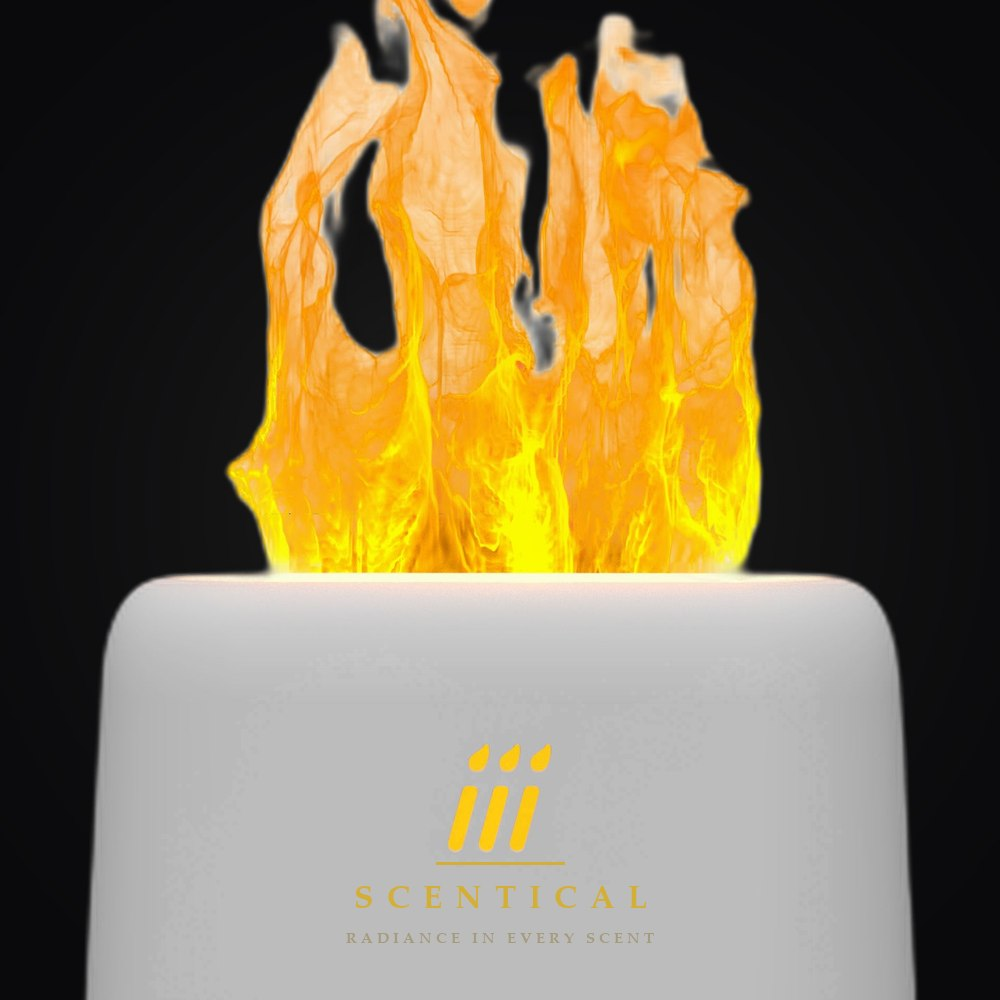
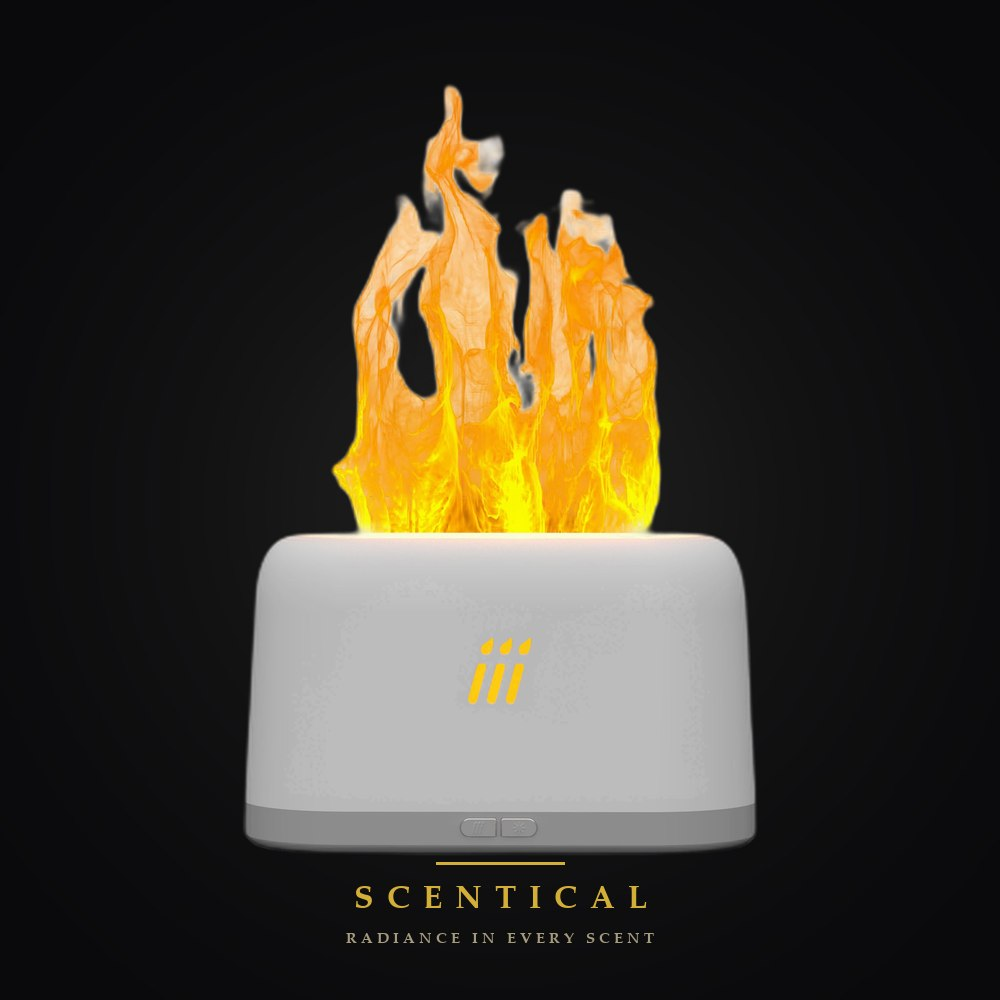
?v=10: clamp สินค้าพอดีเฟรม (แก้หลอดเนปาลล้นขอบ) + ชุดซูมิสุดท้าย

diff --git a/index.html b/index.html
@@ -154,7 +154,7 @@ footer{background:#080704;border-top:1px solid var(--line);margin-top:56px;paddi
 </div></div>
 
 <script>
-const P = [{"handle": "flame-aroma-diffuser-air-humidifier-ultrasonic-cool-mist-maker-fogger-led-essential-oil-flame-lamp-difusor", "price": 499, "tagTh": "ไฟลาวา · ท็อปของร้าน", "tagEn": "Flame effect · Top pick", "imgs": ["img/flame-aroma-diffuser-air-humidifier-ultr/img_13.jpg?v=9", "img/flame-aroma-diffuser-air-humidifier-ultr/img_07.jpg?v=9", "img/flame-aroma-diffuser-air-humidifier-ultr/img_08.jpg?v=9", "img/flame-aroma-diffuser-air-humidifier-ultr/img_12.jpg?v=9", "img/flame-aroma-diffuser-air-humidifier-ultr/img_14.jpg?v=9"], "th": {"name": "เครื่องพ่นหอมไฟลาวาพร้อมไฟสีตามอารมณ์", "blurb": "ไฟลาวาเต็มรูปแบบ 8 โหมดให้เลือกตามอารมณ์ — ตัวท็อปของร้าน", "desc": "ไฟ LED เลียนเปลวไฟสมจริงเต้นตามจังหวะ ปรับโหมดไฟได้ถึง 8 แบบ ทั้งสีเดียวและหลากสี ทำงานคู่กับไอหอมเย็นจากน้ำมันหอมระเหยที่เราชอบ เสียงเงียบเหมาะกับห้องนอนและมุมนั่งสมาธิ ปิดเองอัตโนมัติเมื่อน้ำหมด เสียบ USB ได้กับแหล่งจ่ายทุกแบบ มีทั้งสีดำและขาว เปิดทิ้งไว้ก่อนนอน แล้วปล่อยให้กลิ่นและแสงพาใจให้สงบก่อนหลับ"}, "en": {"name": "Flame Aroma Diffuser & Humidifier with LED Mood Light", "blurb": "8 lighting modes of realistic flame glow — our top pick for bedtime calm.", "desc": "A realistic flickering LED flame pairs with ultrasonic cool mist, gently scenting the room with your favorite essential oil. Eight lighting modes, whisper-quiet operation, USB power, and auto shut-off when the water runs out. Available in sleek Black or White — switch it on before bed and let the light and scent settle your evening."}, "featured": true}, {"handle": "japanese-style-ceramic-indoor-view-of-smoke-and-clouds-craft-ornaments", "price": 329, "tagTh": "ของสวยต้องมี", "tagEn": "Signature piece", "imgs": ["img/japanese-style-ceramic-indoor-view-of-sm/img_01.jpg?v=9", "img/japanese-style-ceramic-indoor-view-of-sm/img_02.jpg?v=9", "img/japanese-style-ceramic-indoor-view-of-sm/img_03.jpg?v=9", "img/japanese-style-ceramic-indoor-view-of-sm/img_04.jpg?v=9", "img/japanese-style-ceramic-indoor-view-of-sm/img_05.jpg?v=9"], "th": {"name": "ของประดับควันเซรามิคสไตล์ญี่ปุ่น “หมอกและเมฆ”", "blurb": "จัดวางแล้วเหมือนเมฆพลิ้วยามเช้า — ของประดับที่มีชีวิตขึ้นมาทุกครั้งที่จุดธูป", "desc": "แรงบันดาลใจจากงานฝีมือญี่ปุ่นที่เรียบและนิ่ง ควันธูปลอดช่องเซรามิคขึ้นไปม้วนตัวเหมือนเมฆและหมอกบนหุบเขายามเช้า เปลี่ยนท่าทางไปเรื่อย ๆ ไม่ซ้ำกันสักครั้ง เซรามิคทนความร้อน ดูแลง่าย แม้ไม่จุดก็ยังงดงามเป็นของประดับ ดีทั้งมุมอ่านหนังสือและมุมนั่งชงชา และเป็นของขวัญให้คนรักความเรียบง่ายได้เลย"}, "en": {"name": "Japanese-Style Smoke & Clouds Ceramic Ornament", "blurb": "Smoke that curls like clouds over a quiet landscape — beautiful even unlit.", "desc": "Inspired by serene Japanese craft, this ornament turns incense smoke into living art — curls and drifts that settle like clouds over a still landscape, never the same twice. Durable, heat-resistant ceramic that stands as striking decor even when unlit. Perfect for a reading corner or a quiet tea moment, and a lovely gift for lovers of calm, minimal spaces."}, "featured": true}, {"handle": "household-ceramic-incense-stick-backflow-incense-burner", "price": 299, "tagTh": "ของสวยต้องมี", "tagEn": "Signature piece", "imgs": ["img/household-ceramic-incense-stick-backflow/img_01.jpg?v=9", "img/household-ceramic-incense-stick-backflow/img_02.jpg?v=9", "img/household-ceramic-incense-stick-backflow/img_03.jpg?v=9", "img/household-ceramic-incense-stick-backflow/img_04.jpg?v=9", "img/household-ceramic-incense-stick-backflow/img_05.jpg?v=9"], "th": {"name": "เตาธูปกลิ้งเซรามิค “หมอกน้ำตกภูเขา”", "blurb": "ควันไหลลงซอกภูเขาเซรามิคเหมือนน้ำตกกลางหมอก — ของสวยที่ให้ทั้งกลิ่นและความสงบ ชิ้นเด่นประจำร้าน", "desc": "เซรามิคขึ้นรูปเป็นทิวเขา จุดกำยานกลิ้งแล้วดูควันไหลลงตามซอกผาเหมือนน้ำตกกลางหมอก เปลี่ยนท่าทางใหม่ทุกครั้งที่จุด เซรามิคทนความร้อน ทำความสะอาดง่าย แถมมีกำยานกลิ้งมาให้เริ่มจุดได้ทันทีตั้งแต่วันแรกที่ได้รับ เหมาะทั้งเป็นมุมสงบประจำบ้านของเราเอง และเป็นของขวัญที่คนได้รับจดจำได้นาน"}, "en": {"name": "Ceramic Backflow Incense Burner – Waterfall Smoke Mountain", "blurb": "Watch smoke pour down sculpted ceramic peaks like a misty waterfall — our signature piece.", "desc": "Sculpted ceramic mountains guide backflow-cone smoke downward like a misty waterfall, a living scene that changes with every burn. Heat-resistant and easy to clean, with backflow cones included so you can light one the day it arrives. A calming piece for your own corner — and a memorable gift."}, "featured": true}, {"handle": "best-selling-usb-ultrasonic-flame-humidifier-led-rgb-colorful-essential-oil-fire-flame-aroma-diffuser", "price": 449, "tagTh": "ไฟลาวา", "tagEn": "Flame effect", "imgs": ["img/best-selling-usb-ultrasonic-flame-humidi/img_04.jpg?v=9", "img/best-selling-usb-ultrasonic-flame-humidi/img_07.jpg?v=9", "img/best-selling-usb-ultrasonic-flame-humidi/img_08.jpg?v=9", "img/best-selling-usb-ultrasonic-flame-humidi/img_09.jpg?v=9", "img/best-selling-usb-ultrasonic-flame-humidi/img_10.jpg?v=9"], "th": {"name": "เครื่องพ่นหอมไฟลาวา 2-in-1 (RGB)", "blurb": "เปลวไฟ RGB วิบวับพร้อมไอหอมบางเบา — เปิดทีไหนมุมนั้นอุ่นขึ้นทันที", "desc": "เครื่องพ่นหอมสองหน้าที่ พ่นไอหอมเย็นจากน้ำมันหอมระเหยที่เราชอบ พร้อมไฟ RGB เลียนเปลวไฟวิบวับเหมือนเตาผิงยามค่ำ เสียงเงียบมาก ไม่รบกวนการนอนหรือการทำงาน และปิดเองอัตโนมัติเมื่อน้ำหมดเพื่อความปลอดภัย ใช้พลังงานผ่าน USB พกไปได้ทั้งโต๊ะทำงานและทริป มีสีขาวกับดำให้เลือก เปิดไว้ตอนอ่านหนังสือก่อนนอน ห้องจะอุ่นขึ้นทั้งกลิ่นและแสง"}, "en": {"name": "2-in-1 Flame Diffuser & Humidifier (RGB)", "blurb": "A flickering RGB flame with soft cool mist — instant warmth for any corner.", "desc": "Ultrasonic cool mist rises through a dynamic RGB flame effect, creating the illusion of real fire while carrying your favorite essential-oil scent through the room. USB-powered, whisper-quiet, and safe with waterless auto shut-off — easy to move between desk, dorm, and travel. Choose White or Black, and let bedtime reading feel warmer in both scent and light."}, "featured": false}, {"handle": "incense-burner-household-indoor-sandalwood-agilawood-ceramic", "price": 299, "tagTh": "กลิ่นซิกเนเจอร์", "tagEn": "Signature scent", "imgs": ["img/incense-burner-household-indoor-sandalwo/img_01.jpg?v=9", "img/incense-burner-household-indoor-sandalwo/img_02.jpg?v=9", "img/incense-burner-household-indoor-sandalwo/img_03.jpg?v=9", "img/incense-burner-household-indoor-sandalwo/img_04.jpg?v=9", "img/incense-burner-household-indoor-sandalwo/img_05.jpg?v=9", "img/incense-burner-household-indoor-sandalwo/img_06.jpg?v=9"], "th": {"name": "เตาเซรามิคทำมือสำหรับธูปไม้จันทน์-อการ์วู้ด", "blurb": "ออกแบบมาเพื่อกลิ่นไม้โดยเฉพาะ — สองสีเคลือบโทนธรรมชาติ น้ำตาลอุ่นและเบจนุ่ม", "desc": "ทรงต่ำ โค้งมน ออกแบบมาให้พอดีกับธูปด้ามและกำยานกลิ่นไม้จันทน์กับอการ์วู้ด ให้ควันหอมหมุนวนออกมาอย่างช้า ๆ ไม่รีบร้อน งานเซรามิคทำมือผนังหนา กระจายความร้อนสม่ำเสมอ ปลอดภัย ใช้ทุกวันได้ เคลือบสองสีโทนธรรมชาติ — น้ำตาลอุ่นและเบจนุ่ม — สำหรับคนที่มีกลิ่นไม้เป็นกลิ่นประจำใจ ชิ้นนี้คือคู่แท้ของกันและกัน"}, "en": {"name": "Handcrafted Ceramic Burner for Sandalwood & Agarwood", "blurb": "Made for wood scents — two earthy glazes, warm brown and soft beige.", "desc": "Designed specifically for sandalwood and agarwood incense, its low, rounded form holds the ember safely while rich smoke drifts out in an unhurried spiral. Handcrafted ceramic with thick walls spreads heat evenly, built for daily rituals and meditation. Choose two earthy glazes — warm Brown or soft Beige — to sit naturally in your favorite corner."}, "featured": false}, {"handle": "layer-mountain-ceramic-incense-burner-incense-holder-creative-decoration-tea-ceremony-worship-antique-incense-holder-incense-burner-household-copy", "price": 279, "tagTh": "ของสวยต้องมี", "tagEn": "Signature piece", "imgs": ["img/layer-mountain-ceramic-incense-burner-in/img_01.jpg?v=9", "img/layer-mountain-ceramic-incense-burner-in/img_02.jpg?v=9", "img/layer-mountain-ceramic-incense-burner-in/img_03.jpg?v=9"], "th": {"name": "เตาธูปกลิ้งภูเขาซ้อนชั้น", "blurb": "ยอดเขาซ้อนชั้นให้สายหมอกไหลยาวต่อเนื่อง สามสีเคลือบให้เลือก — มุมโปรดของสายถ่ายรูป", "desc": "ภูเขาเซรามิคทำมือซ้อนกันหลายชั้น จุดกำยานกลิ้งแล้วควันไหลลงตามหุบเขาเหมือนหมอกยามเช้า เป็นภาพที่ขยับและเปลี่ยนไปทุกครั้ง เลือกสีเคลือบได้ 3 สี — ดำลึก เขียวป่า ขาวกระเบื้อง — มีถาดรองเถ้าถอดออกล้างได้ง่าย วางไว้มุมลมนิ่งแล้วสายหมอกจะสวยที่สุด ถ่ายรูปสวยทุกมุม ให้เป็นของขวัญก็คนได้รับต้องถามหา"}, "en": {"name": "Layer Mountain Backflow Incense Burner – Ceramic Cascade", "blurb": "Handcrafted layered peaks in 3 glazes — a mountain range drawn in smoke.", "desc": "Light a backflow cone and watch smoke pour between the handcrafted ceramic peaks like mist rolling through mountain valleys — a moving scene that changes with every burn. Choose Deep Black, Forest Green, or Porcelain White, with a removable ash tray for easy cleanup. Best in a still-air corner; endlessly photographable, and a gift guests always ask about."}, "featured": false}, {"handle": "ceramic-incense-burner-incense-holder-creative-decoration-tea-ceremony-worship-antique-incense-holder-incense-burner-household", "price": 259, "tagTh": "สะสม", "tagEn": "Collectible", "imgs": ["img/ceramic-incense-burner-incense-holder-cr/img_03.jpg?v=9", "img/ceramic-incense-burner-incense-holder-cr/img_01.jpg?v=9", "img/ceramic-incense-burner-incense-holder-cr/img_02.jpg?v=9"], "th": {"name": "เตาธูปหยินหยางเซรามิคทำมือ", "blurb": "ความสมดุลสองขั้วในชิ้นเดียว — เตาทำมือสำหรับคนที่ชอบเรื่องราวของแต่ละชิ้น", "desc": "ขึ้นรูปเป็นสัญลักษณ์หยินหยางจากเซรามิคเผาอุณหภูมิสูงทำมือ พื้นผิวด้านุ่ม จับแล้วหนักมือน่าถือ รองได้ทั้งธูปด้ามและกำยาน มีจานรองเถ้าในตัว ทำความสะอาดง่าย ให้เป็นของขวัญแก่คนรักโยคะและสายสงบ หรือวางไว้ข้างโต๊ะทำงานเตือนใจให้หายใจช้าลงบ้างในวันที่รีบ"}, "en": {"name": "Yinyang Ceramic Incense Burner – Handcrafted Taijitu", "blurb": "Balance in smoke and stone — a handcrafted Taijitu for daily rituals.", "desc": "Sculpted as the timeless Taijitu symbol, this high-fired handmade ceramic burner has a smooth, weighty feel and a refined matte finish. It holds stick or cone incense with an ash dish built in for effortless upkeep. A thoughtful gift for yoga and meditation lovers — or a quiet reminder on your desk to breathe a little slower."}, "featured": false}, {"handle": "nepal-handmade-incense-aromatherapy-joss-stick-natural-herb", "price": 249, "tagTh": "พรีเมียม", "tagEn": "Premium", "imgs": ["img/nepal-handmade-incense-aromatherapy-joss/img_04.jpg?v=9", "img/nepal-handmade-incense-aromatherapy-joss/img_03.jpg?v=9", "img/nepal-handmade-incense-aromatherapy-joss/img_07.jpg?v=9", "img/nepal-handmade-incense-aromatherapy-joss/img_08.jpg?v=9", "img/nepal-handmade-incense-aromatherapy-joss/img_10.jpg?v=9"], "th": {"name": "ธูปหอมทำมือเนปาล — สมุนไพรหิมาลัย", "blurb": "ร้อยมือจากเนปาล กลิ่นสมุนไพรลึก ๆ สงบ ๆ — สำหรับช่วงเวลาพักของตัวเอง", "desc": "ช่างชาวเนปาลร้อยทีละมือตามสูตรดั้งเดิม จากสมุนไพรธรรมชาติ ตากแดด ไม่ใส่สารเคมีรุนแรง ได้กลิ่นสมุนไพรเรียบ ๆ อบอุ่น ควันน้อย ไหม้เรียบร้อยจนดอก มี 7 กลิ่นให้เลือก เหมาะจุดตอนทำโยคะ นั่งสมาธิ หรือช่วงอาบน้ำอุ่นก่อนนอน และเป็นของขวัญให้คนรักความสงบได้ดีมาก"}, "en": {"name": "Nepal Handmade Incense Sticks – Himalayan Herbs", "blurb": "Hand-rolled in Nepal from natural Himalayan herbs — clean, earthy, deeply calming.", "desc": "Artisan makers in Nepal hand-roll and sun-dry each batch from natural herbs and resins, with no harsh chemicals — a clean, low-smoke burn and a pure, earthy fragrance rooted in Himalayan tradition. Seven essences to choose from, each burning slowly and evenly through a full yoga or meditation session. A gentle ritual for yourself, or a thoughtful gift for someone who needs to slow down."}, "featured": false}, {"handle": "removable-house-incense-burner", "price": 249, "tagTh": "ใช้ทุกวัน", "tagEn": "Everyday", "imgs": ["img/removable-house-incense-burner/img_01.jpg?v=9", "img/removable-house-incense-burner/img_02.jpg?v=9", "img/removable-house-incense-burner/img_03.jpg?v=9", "img/removable-house-incense-burner/img_04.jpg?v=9", "img/removable-house-incense-burner/img_05.jpg?v=9", "img/removable-house-incense-burner/img_06.jpg?v=9"], "th": {"name": "เตาธูปทรงบ้านเซรามิคฝาเปิดได้", "blurb": "บ้านจิ๋วเซรามิคสูง 13 ซม. ฝาเปิด-ถอดล้างง่าย กลิ่นลอยออกมาจากในบ้านน้อย ๆ อย่างนุ่มนวล", "desc": "เตาธูปรูปทรงบ้านเล็ก สูง 13 ซม. วางกำยานหรือธูปด้ามไว้ข้างใน แล้วดูกลิ่นลอยออกมาทางช่องเหมือนแสงอุ่น ๆ จากหน้าต่างบ้าน ฝาเปิด-ถอดได้ จุดและล้างง่าย มีถาดเถ้าซ่อนอยู่ข้างใน พื้นโต๊ะไม่เปื้อน เป็นชิ้นที่ให้เป็นของขวัญวันเกิด ของขวัญเข้าบ้านใหม่ หรือของขวัญให้ตัวเองก็น่ารักเสมอ"}, "en": {"name": "House-Shaped Ceramic Incense Burner – Removable Top (13 cm)", "blurb": "A little ceramic house that breathes fragrance — one of our most giftable pieces.", "desc": "Shaped like a tiny home, this 13 cm ceramic burner holds cones or sticks inside while fragrance drifts out like warmth from a lit window. The removable top makes lighting and cleaning easy, and a hidden ash tray keeps surfaces spotless. A heartwarming gift for housewarmings and birthdays — or a sweet little home for your own calm."}, "featured": false}, {"handle": "double-dragon-incense-plate-incense-burner", "price": 199, "tagTh": "สะสม", "tagEn": "Collectible", "imgs": ["img/double-dragon-incense-plate-incense-burn/img_01.jpg?v=9"], "th": {"name": "จานเตาธูปแบบมังกรคู่สลักนูน", "blurb": "เซรามิคสลักมังกรคู่ลายมงคล — จานรองธูปที่เป็นทั้งเครื่องเซ่นไหว้และของประดับ", "desc": "จานรองธูปเซรามิคเผาเข้ม สลักมังกรคู่ลายดั้งเดิมที่หมายถึงกำลัง ความเป็นสิริมงคล และการคุ้มครอง จานกว้าง 100 มม. รองธูปด้ามหรือธูปก้นหอยได้สบาย ผิวเคลือบเรียบ เช็ดเถ้าออกง่าย ให้เป็นของขวัญแก่คนที่ชอบเรื่องสัญลักษณ์และฮวงจุ้ย หรือตั้งไว้ที่หิ้งบูชาประจำบ้านก็ดูดีมีเรื่องราว"}, "en": {"name": "Double Dragon Incense Plate Burner – Sculpted Ceramic", "blurb": "Two sculpted dragons guard a generous 100 mm tray — a talisman you can actually use.", "desc": "Kiln-fired ceramic with two sculpted dragons flanking the burn tray, a traditional motif of strength, prosperity, and protection. The wide 100 mm plate holds stick or coiled incense, and the smooth glazed surface wipes clean in seconds. A meaningful gift for anyone drawn to symbolism and feng shui — or a quiet guardian for your own shelf or altar."}, "featured": false}, {"handle": "inverted-cone-incense-incense-tower-sandalwood", "price": 189, "tagTh": "ชุดเริ่มต้น", "tagEn": "Starter set", "imgs": ["img/inverted-cone-incense-incense-tower-sand/img_01.jpg?v=9", "img/inverted-cone-incense-incense-tower-sand/img_02.jpg?v=9", "img/inverted-cone-incense-incense-tower-sand/img_03.jpg?v=9", "img/inverted-cone-incense-incense-tower-sand/img_04.jpg?v=9"], "th": {"name": "กำยานกลิ้งทรงเจดีย์ 4 กลิ่น", "blurb": "กำยานกลิ้งรูกลาง 4 กลิ่น จุดแล้วควันไหลลงเป็นสาย — ชุดเริ่มต้นสำหรับคนเพิ่งเริ่มเล่นสายกลิ่น", "desc": "กำยานกลิ้งทรงเจดีย์เจาะช่องตรงกลาง จุดแล้วเป่าไฟออก ควันเย็นจะไหลลงตามตัวเตาเป็นน้ำตกหมอกภายในครึ่งนาที มี 4 กลิ่นให้เลือกตามอารมณ์ — กุหลาบอ่อนหวาน โอสมันทัสหอมกลิ่นดอกไม้ผล ลาเวนเดอร์เหมาะกับค่ำคืนก่อนนอน และไม้จันทน์อบอุ่นลึก เข้าคู่กับเตากลิ้งได้ทุกแบบในร้าน"}, "en": {"name": "Backflow Cone Incense Tower – 4 Scents", "blurb": "Hollow-core cones in 4 scents that pour smoke downward — made for backflow burners.", "desc": "Tower-shaped cones with a hollow channel: light the tip, blow out after 5–10 seconds, and within about half a minute the cooled smoke cascades downward like a waterfall. Choose Rugosa Rose, honeyed Osmanthus, calm Lavender for evenings, or warm creamy Sandalwood. They pair with any of our backflow burners for the full effect."}, "featured": false}, {"handle": "natural-cone-incense-pagoda-incense-small-box", "price": 169, "tagTh": "ของขวัญ", "tagEn": "Giftable", "imgs": ["img/natural-cone-incense-pagoda-incense-smal/img_02.jpg?v=9", "img/natural-cone-incense-pagoda-incense-smal/img_01.jpg?v=9", "img/natural-cone-incense-pagoda-incense-smal/img_03.jpg?v=9", "img/natural-cone-incense-pagoda-incense-smal/img_04.jpg?v=9", "img/natural-cone-incense-pagoda-incense-smal/img_05.jpg?v=9", "img/natural-cone-incense-pagoda-incense-smal/img_06.jpg?v=9", "img/natural-cone-incense-pagoda-incense-smal/img_07.jpg?v=9", "img/natural-cone-incense-pagoda-incense-smal/img_08.jpg?v=9", "img/natural-cone-incense-pagoda-incense-smal/img_09.jpg?v=9", "img/natural-cone-incense-pagoda-incense-smal/img_10.jpg?v=9"], "th": {"name": "กำยานธรรมชาติกล่องของขวัญ ทรงเจดีย์", "blurb": "กำยานพฤกษชาติกดมือในกล่องเจดีย์จิ๋ว — หยิบไปเป็นของขวัญได้เลย ไม่ต้องห่อเพิ่ม", "desc": "กำยานกดมือจากสมุนไพรและวัตถุดิบธรรมชาติ จุดแล้วกลิ่นนุ่มเบาสบาย ไม่ควันฉุนหนักอย่างกำยานทั่วไป เม็ดหนึ่งให้หอมประมาณ 20-30 นาที มี 8 กลิ่นให้เลือกสะสมตั้งแต่กลิ่นดอกไม้ถึงกลิ่นไม้ กล่องทรงเจดีย์สวยพร้อมให้เป็นของขวัญได้ทันที หรือเก็บไว้จุดเองตอนอ่านหนังสือยามค่ำก็ดีมาก"}, "en": {"name": "Natural Botanical Cone Incense – Pagoda Gift Box", "blurb": "Hand-pressed botanical cones in a pagoda box — lovely enough to gift as-is.", "desc": "Hand-pressed from herbs and natural botanical ingredients, these cones burn slowly — around 20–30 minutes each — releasing a soft, natural fragrance without the heavy smoke of mass-produced cones. Eight scent characters from floral to woody; pick one or collect them all. The pagoda-style box makes an effortless little gift, for someone else or for your own quiet evening."}, "featured": false}, {"handle": "ceramic-wire-incense-burner-home-indoor-incense-holder-incense", "price": 129, "tagTh": "ใช้ทุกวัน", "tagEn": "Everyday", "imgs": ["img/ceramic-wire-incense-burner-home-indoor-/img_01.jpg?v=9", "img/ceramic-wire-incense-burner-home-indoor-/img_02.jpg?v=9", "img/ceramic-wire-incense-burner-home-indoor-/img_03.jpg?v=9", "img/ceramic-wire-incense-burner-home-indoor-/img_04.jpg?v=9", "img/ceramic-wire-incense-burner-home-indoor-/img_05.jpg?v=9"], "th": {"name": "ที่เสียบธูปเซรามิคขาวาย (ฐานแดง)", "blurb": "เล็ก ง่าย ใช้ทุกวัน — ฐานเซรามิคสีแดงรับเถ้าไว้หมด มือไม่เปื้อน", "desc": "ฐานเซรามิคสีแดงเข้มคู่กับขาวายบางเบา เสียบธูปหนึ่งดอกให้ตั้งตรงเด่นเหมือนประติมากรรมจิ๋ว ควันลอยขึ้นอย่างอิสระ จานรองกว้างเก็บเถ้าไว้หมด ไม่ทำโต๊ะเปื้อน ขนาดกะทัดรัดวางได้ทั้งหัวเตียงและโต๊ะทำงาน เป็นของใช้ราคาเข้าถึงง่ายสำหรับเริ่มพิธีเล็ก ๆ ของตัวเอง หรือเป็นของขวัญชิ้นเล็กที่ใจความดี"}, "en": {"name": "Ceramic Wire Incense Stick Holder – Red Base", "blurb": "One stick, one small sculpture — a bold red base for everyday rituals.", "desc": "A striking red ceramic base with a delicate wire holder lifts a single incense stick into a small sculpture, letting the smoke rise freely. The wide dish catches every bit of ash to protect your furniture, and the compact footprint fits nightstands and desks alike. An easy, affordable way to begin — or gift — a daily incense ritual."}, "featured": false}];
+const P = [{"handle": "flame-aroma-diffuser-air-humidifier-ultrasonic-cool-mist-maker-fogger-led-essential-oil-flame-lamp-difusor", "price": 499, "tagTh": "ไฟลาวา · ท็อปของร้าน", "tagEn": "Flame effect · Top pick", "imgs": ["img/flame-aroma-diffuser-air-humidifier-ultr/img_13.jpg?v=10", "img/flame-aroma-diffuser-air-humidifier-ultr/img_07.jpg?v=10", "img/flame-aroma-diffuser-air-humidifier-ultr/img_08.jpg?v=10", "img/flame-aroma-diffuser-air-humidifier-ultr/img_12.jpg?v=10", "img/flame-aroma-diffuser-air-humidifier-ultr/img_14.jpg?v=10"], "th": {"name": "เครื่องพ่นหอมไฟลาวาพร้อมไฟสีตามอารมณ์", "blurb": "ไฟลาวาเต็มรูปแบบ 8 โหมดให้เลือกตามอารมณ์ — ตัวท็อปของร้าน", "desc": "ไฟ LED เลียนเปลวไฟสมจริงเต้นตามจังหวะ ปรับโหมดไฟได้ถึง 8 แบบ ทั้งสีเดียวและหลากสี ทำงานคู่กับไอหอมเย็นจากน้ำมันหอมระเหยที่เราชอบ เสียงเงียบเหมาะกับห้องนอนและมุมนั่งสมาธิ ปิดเองอัตโนมัติเมื่อน้ำหมด เสียบ USB ได้กับแหล่งจ่ายทุกแบบ มีทั้งสีดำและขาว เปิดทิ้งไว้ก่อนนอน แล้วปล่อยให้กลิ่นและแสงพาใจให้สงบก่อนหลับ"}, "en": {"name": "Flame Aroma Diffuser & Humidifier with LED Mood Light", "blurb": "8 lighting modes of realistic flame glow — our top pick for bedtime calm.", "desc": "A realistic flickering LED flame pairs with ultrasonic cool mist, gently scenting the room with your favorite essential oil. Eight lighting modes, whisper-quiet operation, USB power, and auto shut-off when the water runs out. Available in sleek Black or White — switch it on before bed and let the light and scent settle your evening."}, "featured": true}, {"handle": "japanese-style-ceramic-indoor-view-of-smoke-and-clouds-craft-ornaments", "price": 329, "tagTh": "ของสวยต้องมี", "tagEn": "Signature piece", "imgs": ["img/japanese-style-ceramic-indoor-view-of-sm/img_01.jpg?v=10", "img/japanese-style-ceramic-indoor-view-of-sm/img_02.jpg?v=10", "img/japanese-style-ceramic-indoor-view-of-sm/img_03.jpg?v=10", "img/japanese-style-ceramic-indoor-view-of-sm/img_04.jpg?v=10", "img/japanese-style-ceramic-indoor-view-of-sm/img_05.jpg?v=10"], "th": {"name": "ของประดับควันเซรามิคสไตล์ญี่ปุ่น “หมอกและเมฆ”", "blurb": "จัดวางแล้วเหมือนเมฆพลิ้วยามเช้า — ของประดับที่มีชีวิตขึ้นมาทุกครั้งที่จุดธูป", "desc": "แรงบันดาลใจจากงานฝีมือญี่ปุ่นที่เรียบและนิ่ง ควันธูปลอดช่องเซรามิคขึ้นไปม้วนตัวเหมือนเมฆและหมอกบนหุบเขายามเช้า เปลี่ยนท่าทางไปเรื่อย ๆ ไม่ซ้ำกันสักครั้ง เซรามิคทนความร้อน ดูแลง่าย แม้ไม่จุดก็ยังงดงามเป็นของประดับ ดีทั้งมุมอ่านหนังสือและมุมนั่งชงชา และเป็นของขวัญให้คนรักความเรียบง่ายได้เลย"}, "en": {"name": "Japanese-Style Smoke & Clouds Ceramic Ornament", "blurb": "Smoke that curls like clouds over a quiet landscape — beautiful even unlit.", "desc": "Inspired by serene Japanese craft, this ornament turns incense smoke into living art — curls and drifts that settle like clouds over a still landscape, never the same twice. Durable, heat-resistant ceramic that stands as striking decor even when unlit. Perfect for a reading corner or a quiet tea moment, and a lovely gift for lovers of calm, minimal spaces."}, "featured": true}, {"handle": "household-ceramic-incense-stick-backflow-incense-burner", "price": 299, "tagTh": "ของสวยต้องมี", "tagEn": "Signature piece", "imgs": ["img/household-ceramic-incense-stick-backflow/img_01.jpg?v=10", "img/household-ceramic-incense-stick-backflow/img_02.jpg?v=10", "img/household-ceramic-incense-stick-backflow/img_03.jpg?v=10", "img/household-ceramic-incense-stick-backflow/img_04.jpg?v=10", "img/household-ceramic-incense-stick-backflow/img_05.jpg?v=10"], "th": {"name": "เตาธูปกลิ้งเซรามิค “หมอกน้ำตกภูเขา”", "blurb": "ควันไหลลงซอกภูเขาเซรามิคเหมือนน้ำตกกลางหมอก — ของสวยที่ให้ทั้งกลิ่นและความสงบ ชิ้นเด่นประจำร้าน", "desc": "เซรามิคขึ้นรูปเป็นทิวเขา จุดกำยานกลิ้งแล้วดูควันไหลลงตามซอกผาเหมือนน้ำตกกลางหมอก เปลี่ยนท่าทางใหม่ทุกครั้งที่จุด เซรามิคทนความร้อน ทำความสะอาดง่าย แถมมีกำยานกลิ้งมาให้เริ่มจุดได้ทันทีตั้งแต่วันแรกที่ได้รับ เหมาะทั้งเป็นมุมสงบประจำบ้านของเราเอง และเป็นของขวัญที่คนได้รับจดจำได้นาน"}, "en": {"name": "Ceramic Backflow Incense Burner – Waterfall Smoke Mountain", "blurb": "Watch smoke pour down sculpted ceramic peaks like a misty waterfall — our signature piece.", "desc": "Sculpted ceramic mountains guide backflow-cone smoke downward like a misty waterfall, a living scene that changes with every burn. Heat-resistant and easy to clean, with backflow cones included so you can light one the day it arrives. A calming piece for your own corner — and a memorable gift."}, "featured": true}, {"handle": "best-selling-usb-ultrasonic-flame-humidifier-led-rgb-colorful-essential-oil-fire-flame-aroma-diffuser", "price": 449, "tagTh": "ไฟลาวา", "tagEn": "Flame effect", "imgs": ["img/best-selling-usb-ultrasonic-flame-humidi/img_04.jpg?v=10", "img/best-selling-usb-ultrasonic-flame-humidi/img_07.jpg?v=10", "img/best-selling-usb-ultrasonic-flame-humidi/img_08.jpg?v=10", "img/best-selling-usb-ultrasonic-flame-humidi/img_09.jpg?v=10", "img/best-selling-usb-ultrasonic-flame-humidi/img_10.jpg?v=10"], "th": {"name": "เครื่องพ่นหอมไฟลาวา 2-in-1 (RGB)", "blurb": "เปลวไฟ RGB วิบวับพร้อมไอหอมบางเบา — เปิดทีไหนมุมนั้นอุ่นขึ้นทันที", "desc": "เครื่องพ่นหอมสองหน้าที่ พ่นไอหอมเย็นจากน้ำมันหอมระเหยที่เราชอบ พร้อมไฟ RGB เลียนเปลวไฟวิบวับเหมือนเตาผิงยามค่ำ เสียงเงียบมาก ไม่รบกวนการนอนหรือการทำงาน และปิดเองอัตโนมัติเมื่อน้ำหมดเพื่อความปลอดภัย ใช้พลังงานผ่าน USB พกไปได้ทั้งโต๊ะทำงานและทริป มีสีขาวกับดำให้เลือก เปิดไว้ตอนอ่านหนังสือก่อนนอน ห้องจะอุ่นขึ้นทั้งกลิ่นและแสง"}, "en": {"name": "2-in-1 Flame Diffuser & Humidifier (RGB)", "blurb": "A flickering RGB flame with soft cool mist — instant warmth for any corner.", "desc": "Ultrasonic cool mist rises through a dynamic RGB flame effect, creating the illusion of real fire while carrying your favorite essential-oil scent through the room. USB-powered, whisper-quiet, and safe with waterless auto shut-off — easy to move between desk, dorm, and travel. Choose White or Black, and let bedtime reading feel warmer in both scent and light."}, "featured": false}, {"handle": "incense-burner-household-indoor-sandalwood-agilawood-ceramic", "price": 299, "tagTh": "กลิ่นซิกเนเจอร์", "tagEn": "Signature scent", "imgs": ["img/incense-burner-household-indoor-sandalwo/img_01.jpg?v=10", "img/incense-burner-household-indoor-sandalwo/img_02.jpg?v=10", "img/incense-burner-household-indoor-sandalwo/img_03.jpg?v=10", "img/incense-burner-household-indoor-sandalwo/img_04.jpg?v=10", "img/incense-burner-household-indoor-sandalwo/img_05.jpg?v=10", "img/incense-burner-household-indoor-sandalwo/img_06.jpg?v=10"], "th": {"name": "เตาเซรามิคทำมือสำหรับธูปไม้จันทน์-อการ์วู้ด", "blurb": "ออกแบบมาเพื่อกลิ่นไม้โดยเฉพาะ — สองสีเคลือบโทนธรรมชาติ น้ำตาลอุ่นและเบจนุ่ม", "desc": "ทรงต่ำ โค้งมน ออกแบบมาให้พอดีกับธูปด้ามและกำยานกลิ่นไม้จันทน์กับอการ์วู้ด ให้ควันหอมหมุนวนออกมาอย่างช้า ๆ ไม่รีบร้อน งานเซรามิคทำมือผนังหนา กระจายความร้อนสม่ำเสมอ ปลอดภัย ใช้ทุกวันได้ เคลือบสองสีโทนธรรมชาติ — น้ำตาลอุ่นและเบจนุ่ม — สำหรับคนที่มีกลิ่นไม้เป็นกลิ่นประจำใจ ชิ้นนี้คือคู่แท้ของกันและกัน"}, "en": {"name": "Handcrafted Ceramic Burner for Sandalwood & Agarwood", "blurb": "Made for wood scents — two earthy glazes, warm brown and soft beige.", "desc": "Designed specifically for sandalwood and agarwood incense, its low, rounded form holds the ember safely while rich smoke drifts out in an unhurried spiral. Handcrafted ceramic with thick walls spreads heat evenly, built for daily rituals and meditation. Choose two earthy glazes — warm Brown or soft Beige — to sit naturally in your favorite corner."}, "featured": false}, {"handle": "layer-mountain-ceramic-incense-burner-incense-holder-creative-decoration-tea-ceremony-worship-antique-incense-holder-incense-burner-household-copy", "price": 279, "tagTh": "ของสวยต้องมี", "tagEn": "Signature piece", "imgs": ["img/layer-mountain-ceramic-incense-burner-in/img_01.jpg?v=10", "img/layer-mountain-ceramic-incense-burner-in/img_02.jpg?v=10", "img/layer-mountain-ceramic-incense-burner-in/img_03.jpg?v=10"], "th": {"name": "เตาธูปกลิ้งภูเขาซ้อนชั้น", "blurb": "ยอดเขาซ้อนชั้นให้สายหมอกไหลยาวต่อเนื่อง สามสีเคลือบให้เลือก — มุมโปรดของสายถ่ายรูป", "desc": "ภูเขาเซรามิคทำมือซ้อนกันหลายชั้น จุดกำยานกลิ้งแล้วควันไหลลงตามหุบเขาเหมือนหมอกยามเช้า เป็นภาพที่ขยับและเปลี่ยนไปทุกครั้ง เลือกสีเคลือบได้ 3 สี — ดำลึก เขียวป่า ขาวกระเบื้อง — มีถาดรองเถ้าถอดออกล้างได้ง่าย วางไว้มุมลมนิ่งแล้วสายหมอกจะสวยที่สุด ถ่ายรูปสวยทุกมุม ให้เป็นของขวัญก็คนได้รับต้องถามหา"}, "en": {"name": "Layer Mountain Backflow Incense Burner – Ceramic Cascade", "blurb": "Handcrafted layered peaks in 3 glazes — a mountain range drawn in smoke.", "desc": "Light a backflow cone and watch smoke pour between the handcrafted ceramic peaks like mist rolling through mountain valleys — a moving scene that changes with every burn. Choose Deep Black, Forest Green, or Porcelain White, with a removable ash tray for easy cleanup. Best in a still-air corner; endlessly photographable, and a gift guests always ask about."}, "featured": false}, {"handle": "ceramic-incense-burner-incense-holder-creative-decoration-tea-ceremony-worship-antique-incense-holder-incense-burner-household", "price": 259, "tagTh": "สะสม", "tagEn": "Collectible", "imgs": ["img/ceramic-incense-burner-incense-holder-cr/img_03.jpg?v=10", "img/ceramic-incense-burner-incense-holder-cr/img_01.jpg?v=10", "img/ceramic-incense-burner-incense-holder-cr/img_02.jpg?v=10"], "th": {"name": "เตาธูปหยินหยางเซรามิคทำมือ", "blurb": "ความสมดุลสองขั้วในชิ้นเดียว — เตาทำมือสำหรับคนที่ชอบเรื่องราวของแต่ละชิ้น", "desc": "ขึ้นรูปเป็นสัญลักษณ์หยินหยางจากเซรามิคเผาอุณหภูมิสูงทำมือ พื้นผิวด้านุ่ม จับแล้วหนักมือน่าถือ รองได้ทั้งธูปด้ามและกำยาน มีจานรองเถ้าในตัว ทำความสะอาดง่าย ให้เป็นของขวัญแก่คนรักโยคะและสายสงบ หรือวางไว้ข้างโต๊ะทำงานเตือนใจให้หายใจช้าลงบ้างในวันที่รีบ"}, "en": {"name": "Yinyang Ceramic Incense Burner – Handcrafted Taijitu", "blurb": "Balance in smoke and stone — a handcrafted Taijitu for daily rituals.", "desc": "Sculpted as the timeless Taijitu symbol, this high-fired handmade ceramic burner has a smooth, weighty feel and a refined matte finish. It holds stick or cone incense with an ash dish built in for effortless upkeep. A thoughtful gift for yoga and meditation lovers — or a quiet reminder on your desk to breathe a little slower."}, "featured": false}, {"handle": "nepal-handmade-incense-aromatherapy-joss-stick-natural-herb", "price": 249, "tagTh": "พรีเมียม", "tagEn": "Premium", "imgs": ["img/nepal-handmade-incense-aromatherapy-joss/img_04.jpg?v=10", "img/nepal-handmade-incense-aromatherapy-joss/img_03.jpg?v=10", "img/nepal-handmade-incense-aromatherapy-joss/img_07.jpg?v=10", "img/nepal-handmade-incense-aromatherapy-joss/img_08.jpg?v=10", "img/nepal-handmade-incense-aromatherapy-joss/img_10.jpg?v=10"], "th": {"name": "ธูปหอมทำมือเนปาล — สมุนไพรหิมาลัย", "blurb": "ร้อยมือจากเนปาล กลิ่นสมุนไพรลึก ๆ สงบ ๆ — สำหรับช่วงเวลาพักของตัวเอง", "desc": "ช่างชาวเนปาลร้อยทีละมือตามสูตรดั้งเดิม จากสมุนไพรธรรมชาติ ตากแดด ไม่ใส่สารเคมีรุนแรง ได้กลิ่นสมุนไพรเรียบ ๆ อบอุ่น ควันน้อย ไหม้เรียบร้อยจนดอก มี 7 กลิ่นให้เลือก เหมาะจุดตอนทำโยคะ นั่งสมาธิ หรือช่วงอาบน้ำอุ่นก่อนนอน และเป็นของขวัญให้คนรักความสงบได้ดีมาก"}, "en": {"name": "Nepal Handmade Incense Sticks – Himalayan Herbs", "blurb": "Hand-rolled in Nepal from natural Himalayan herbs — clean, earthy, deeply calming.", "desc": "Artisan makers in Nepal hand-roll and sun-dry each batch from natural herbs and resins, with no harsh chemicals — a clean, low-smoke burn and a pure, earthy fragrance rooted in Himalayan tradition. Seven essences to choose from, each burning slowly and evenly through a full yoga or meditation session. A gentle ritual for yourself, or a thoughtful gift for someone who needs to slow down."}, "featured": false}, {"handle": "removable-house-incense-burner", "price": 249, "tagTh": "ใช้ทุกวัน", "tagEn": "Everyday", "imgs": ["img/removable-house-incense-burner/img_01.jpg?v=10", "img/removable-house-incense-burner/img_02.jpg?v=10", "img/removable-house-incense-burner/img_03.jpg?v=10", "img/removable-house-incense-burner/img_04.jpg?v=10", "img/removable-house-incense-burner/img_05.jpg?v=10", "img/removable-house-incense-burner/img_06.jpg?v=10"], "th": {"name": "เตาธูปทรงบ้านเซรามิคฝาเปิดได้", "blurb": "บ้านจิ๋วเซรามิคสูง 13 ซม. ฝาเปิด-ถอดล้างง่าย กลิ่นลอยออกมาจากในบ้านน้อย ๆ อย่างนุ่มนวล", "desc": "เตาธูปรูปทรงบ้านเล็ก สูง 13 ซม. วางกำยานหรือธูปด้ามไว้ข้างใน แล้วดูกลิ่นลอยออกมาทางช่องเหมือนแสงอุ่น ๆ จากหน้าต่างบ้าน ฝาเปิด-ถอดได้ จุดและล้างง่าย มีถาดเถ้าซ่อนอยู่ข้างใน พื้นโต๊ะไม่เปื้อน เป็นชิ้นที่ให้เป็นของขวัญวันเกิด ของขวัญเข้าบ้านใหม่ หรือของขวัญให้ตัวเองก็น่ารักเสมอ"}, "en": {"name": "House-Shaped Ceramic Incense Burner – Removable Top (13 cm)", "blurb": "A little ceramic house that breathes fragrance — one of our most giftable pieces.", "desc": "Shaped like a tiny home, this 13 cm ceramic burner holds cones or sticks inside while fragrance drifts out like warmth from a lit window. The removable top makes lighting and cleaning easy, and a hidden ash tray keeps surfaces spotless. A heartwarming gift for housewarmings and birthdays — or a sweet little home for your own calm."}, "featured": false}, {"handle": "double-dragon-incense-plate-incense-burner", "price": 199, "tagTh": "สะสม", "tagEn": "Collectible", "imgs": ["img/double-dragon-incense-plate-incense-burn/img_01.jpg?v=10"], "th": {"name": "จานเตาธูปแบบมังกรคู่สลักนูน", "blurb": "เซรามิคสลักมังกรคู่ลายมงคล — จานรองธูปที่เป็นทั้งเครื่องเซ่นไหว้และของประดับ", "desc": "จานรองธูปเซรามิคเผาเข้ม สลักมังกรคู่ลายดั้งเดิมที่หมายถึงกำลัง ความเป็นสิริมงคล และการคุ้มครอง จานกว้าง 100 มม. รองธูปด้ามหรือธูปก้นหอยได้สบาย ผิวเคลือบเรียบ เช็ดเถ้าออกง่าย ให้เป็นของขวัญแก่คนที่ชอบเรื่องสัญลักษณ์และฮวงจุ้ย หรือตั้งไว้ที่หิ้งบูชาประจำบ้านก็ดูดีมีเรื่องราว"}, "en": {"name": "Double Dragon Incense Plate Burner – Sculpted Ceramic", "blurb": "Two sculpted dragons guard a generous 100 mm tray — a talisman you can actually use.", "desc": "Kiln-fired ceramic with two sculpted dragons flanking the burn tray, a traditional motif of strength, prosperity, and protection. The wide 100 mm plate holds stick or coiled incense, and the smooth glazed surface wipes clean in seconds. A meaningful gift for anyone drawn to symbolism and feng shui — or a quiet guardian for your own shelf or altar."}, "featured": false}, {"handle": "inverted-cone-incense-incense-tower-sandalwood", "price": 189, "tagTh": "ชุดเริ่มต้น", "tagEn": "Starter set", "imgs": ["img/inverted-cone-incense-incense-tower-sand/img_01.jpg?v=10", "img/inverted-cone-incense-incense-tower-sand/img_02.jpg?v=10", "img/inverted-cone-incense-incense-tower-sand/img_03.jpg?v=10", "img/inverted-cone-incense-incense-tower-sand/img_04.jpg?v=10"], "th": {"name": "กำยานกลิ้งทรงเจดีย์ 4 กลิ่น", "blurb": "กำยานกลิ้งรูกลาง 4 กลิ่น จุดแล้วควันไหลลงเป็นสาย — ชุดเริ่มต้นสำหรับคนเพิ่งเริ่มเล่นสายกลิ่น", "desc": "กำยานกลิ้งทรงเจดีย์เจาะช่องตรงกลาง จุดแล้วเป่าไฟออก ควันเย็นจะไหลลงตามตัวเตาเป็นน้ำตกหมอกภายในครึ่งนาที มี 4 กลิ่นให้เลือกตามอารมณ์ — กุหลาบอ่อนหวาน โอสมันทัสหอมกลิ่นดอกไม้ผล ลาเวนเดอร์เหมาะกับค่ำคืนก่อนนอน และไม้จันทน์อบอุ่นลึก เข้าคู่กับเตากลิ้งได้ทุกแบบในร้าน"}, "en": {"name": "Backflow Cone Incense Tower – 4 Scents", "blurb": "Hollow-core cones in 4 scents that pour smoke downward — made for backflow burners.", "desc": "Tower-shaped cones with a hollow channel: light the tip, blow out after 5–10 seconds, and within about half a minute the cooled smoke cascades downward like a waterfall. Choose Rugosa Rose, honeyed Osmanthus, calm Lavender for evenings, or warm creamy Sandalwood. They pair with any of our backflow burners for the full effect."}, "featured": false}, {"handle": "natural-cone-incense-pagoda-incense-small-box", "price": 169, "tagTh": "ของขวัญ", "tagEn": "Giftable", "imgs": ["img/natural-cone-incense-pagoda-incense-smal/img_02.jpg?v=10", "img/natural-cone-incense-pagoda-incense-smal/img_01.jpg?v=10", "img/natural-cone-incense-pagoda-incense-smal/img_03.jpg?v=10", "img/natural-cone-incense-pagoda-incense-smal/img_04.jpg?v=10", "img/natural-cone-incense-pagoda-incense-smal/img_05.jpg?v=10", "img/natural-cone-incense-pagoda-incense-smal/img_06.jpg?v=10", "img/natural-cone-incense-pagoda-incense-smal/img_07.jpg?v=10", "img/natural-cone-incense-pagoda-incense-smal/img_08.jpg?v=10", "img/natural-cone-incense-pagoda-incense-smal/img_09.jpg?v=10", "img/natural-cone-incense-pagoda-incense-smal/img_10.jpg?v=10"], "th": {"name": "กำยานธรรมชาติกล่องของขวัญ ทรงเจดีย์", "blurb": "กำยานพฤกษชาติกดมือในกล่องเจดีย์จิ๋ว — หยิบไปเป็นของขวัญได้เลย ไม่ต้องห่อเพิ่ม", "desc": "กำยานกดมือจากสมุนไพรและวัตถุดิบธรรมชาติ จุดแล้วกลิ่นนุ่มเบาสบาย ไม่ควันฉุนหนักอย่างกำยานทั่วไป เม็ดหนึ่งให้หอมประมาณ 20-30 นาที มี 8 กลิ่นให้เลือกสะสมตั้งแต่กลิ่นดอกไม้ถึงกลิ่นไม้ กล่องทรงเจดีย์สวยพร้อมให้เป็นของขวัญได้ทันที หรือเก็บไว้จุดเองตอนอ่านหนังสือยามค่ำก็ดีมาก"}, "en": {"name": "Natural Botanical Cone Incense – Pagoda Gift Box", "blurb": "Hand-pressed botanical cones in a pagoda box — lovely enough to gift as-is.", "desc": "Hand-pressed from herbs and natural botanical ingredients, these cones burn slowly — around 20–30 minutes each — releasing a soft, natural fragrance without the heavy smoke of mass-produced cones. Eight scent characters from floral to woody; pick one or collect them all. The pagoda-style box makes an effortless little gift, for someone else or for your own quiet evening."}, "featured": false}, {"handle": "ceramic-wire-incense-burner-home-indoor-incense-holder-incense", "price": 129, "tagTh": "ใช้ทุกวัน", "tagEn": "Everyday", "imgs": ["img/ceramic-wire-incense-burner-home-indoor-/img_01.jpg?v=10", "img/ceramic-wire-incense-burner-home-indoor-/img_02.jpg?v=10", "img/ceramic-wire-incense-burner-home-indoor-/img_03.jpg?v=10", "img/ceramic-wire-incense-burner-home-indoor-/img_04.jpg?v=10", "img/ceramic-wire-incense-burner-home-indoor-/img_05.jpg?v=10"], "th": {"name": "ที่เสียบธูปเซรามิคขาวาย (ฐานแดง)", "blurb": "เล็ก ง่าย ใช้ทุกวัน — ฐานเซรามิคสีแดงรับเถ้าไว้หมด มือไม่เปื้อน", "desc": "ฐานเซรามิคสีแดงเข้มคู่กับขาวายบางเบา เสียบธูปหนึ่งดอกให้ตั้งตรงเด่นเหมือนประติมากรรมจิ๋ว ควันลอยขึ้นอย่างอิสระ จานรองกว้างเก็บเถ้าไว้หมด ไม่ทำโต๊ะเปื้อน ขนาดกะทัดรัดวางได้ทั้งหัวเตียงและโต๊ะทำงาน เป็นของใช้ราคาเข้าถึงง่ายสำหรับเริ่มพิธีเล็ก ๆ ของตัวเอง หรือเป็นของขวัญชิ้นเล็กที่ใจความดี"}, "en": {"name": "Ceramic Wire Incense Stick Holder – Red Base", "blurb": "One stick, one small sculpture — a bold red base for everyday rituals.", "desc": "A striking red ceramic base with a delicate wire holder lifts a single incense stick into a small sculpture, letting the smoke rise freely. The wide dish catches every bit of ash to protect your furniture, and the compact footprint fits nightstands and desks alike. An easy, affordable way to begin — or gift — a daily incense ritual."}, "featured": false}];
 const I18N = {"th": {"nav_products": "สินค้าทั้งหมด", "nav_how": "วิธีสั่งซื้อ", "nav_story": "เรื่องราว", "ribbon": "🎉 <b>ร้านเปิดใหม่</b> — รับ pre-order จัดส่ง 10-14 วัน · ราคาเปิดร้านพิเศษช่วงแรก · โอนพร้อมเพย์ปลอดภัยทุกออเดอร์", "hero_sub": "Radiance in Every Scent", "hero_h": "ของหอมที่มองเห็น มีพิธี ให้เป็นของขวัญได้", "hero_p": "เตาธูปกลิ้ง กำยาน เทียน และเครื่องพ่นหอม — คัดทีละชิ้น สำหรับช่วงเวลาพักของตัวเอง และเป็นของขวัญที่จับต้องได้", "b_ship": "🚚 ส่ง 10-14 วัน (ช่วงเทศกาลจีน ก.ย.ปลาย-ต.ค.ต้น 15-20 วัน)", "b_pay": "💳 พร้อมเพย์", "cta": "ดูสินค้าทั้งหมด ↓", "b_gift": "🎁 ห่อของขวัญได้", "b_img": "📷 รูปสินค้าจริงทุกชิ้น", "feat_t": "ชิ้นเด่นของร้าน", "feat_s": "สามชิ้นที่เราเลือกให้เป็นหน้าชื่อเรื่องของบ้าน", "all_t": "สินค้าทั้งหมด", "all_s": "13 รายการ — รูปจริงทุกชิ้น แตะการ์ดเพื่อดูรายละเอียด", "how_t": "วิธีสั่งซื้อ", "how_s": "ง่าย ๆ 3 ขั้น", "note_line": "📍 ช่องทางสั่งซื้อ: LINE <b>@scentical</b> (กำลังเปิดระบบ — ถ้าทักแล้วยังไม่ตอบ รบกวนรอสักครู่ เราทีมเล็กที่ตั้งใจมาก)", "note_prom": "🛡 <b>คำมั่นของร้าน:</b> ยกเลิกฟรีภายใน 24 ชม.หลังสั่ง · ชำระผ่าน QR พร้อมเพย์ของร้านเท่านั้น · ของไม่ถึง/ไม่ตรงรุ่น = คืนเงินเต็มจำนวน", "story_t": "เรื่องราวของ Scentical", "story_p": "Scentical เริ่มจากความเชื่อง่าย ๆ ว่ากลิ่นคือปุ่มหยุดเวลา — กลิ่นไม้จันทน์หนึ่งสายพาเรากลับไปสู่ช่วงเวลาที่ใจได้พักจริง ๆ ทุกชิ้นในร้านผ่านเกณฑ์เดียวกัน คือมองเห็นแล้วสวย และจุดแล้วใจสงบ เราอยากให้มันเป็นได้ทั้งช่วงเวลาเล็ก ๆ ของตัวเองในแต่ละวัน และเป็นของขวัญที่บอกคนที่เราแคร์ว่า ขอให้เธอได้พักบ้างนะ", "pre": "ราคาเปิดร้าน · pre-order", "order": "สั่งซื้อผ่าน LINE @scentical", "ship_note": "จัดส่ง 10-14 วัน · โอนพร้อมเพย์ · มีปัญหาทักแชทได้ตลอด", "footer_r": "เว็บไซต์ร้านค้า · ระบบ pre-order", "steps": [{"t": "เลือกสินค้า", "d": "แตะการ์ดสินค้าเพื่อดูรูปจริงทุกมุม แล้วจดรุ่นที่ถูกใจไว้"}, {"t": "ทักแจ้งผ่าน LINE", "d": "ส่งรุ่นและที่อยู่มาที่ LINE @scentical — ทีมงานตอบยืนยันสต็อกและค่าส่งภายในวันเดียวกัน"}, {"t": "โอนพร้อมเพย์ แล้วรอรับของ", "d": "ชำระผ่าน QR พร้อมเพย์ของร้าน จัดส่ง 10-14 วัน พร้อมสลิปติดตามพัสดุถึงมือ"}]}, "en": {"nav_products": "All products", "nav_how": "How to order", "nav_story": "Our story", "ribbon": "🎉 <b>Grand opening</b> — pre-order ships in 10-14 days · special opening prices · safe PromptPay checkout", "hero_sub": "Radiance in Every Scent", "hero_h": "Fragrance you can see, a small ritual, a gift worth giving", "hero_p": "Backflow burners, incense, candles and flame diffusers — hand-picked for your quiet moments and giftable by touch.", "b_ship": "🚚 Ships in 10-14 days (15-20 during Chinese holidays, late Sep-early Oct)", "b_pay": "💳 PromptPay", "cta": "Browse all products ↓", "b_gift": "🎁 Gift wrapping available", "b_img": "📷 Real product photos only", "feat_t": "Signature pieces", "feat_s": "Three pieces we chose as the face of the house", "all_t": "All products", "all_s": "13 items — real photos. Tap a card for details.", "how_t": "How to order", "how_s": "Three simple steps", "note_line": "📍 Order via LINE <b>@scentical</b> (system opening soon — if we're slow to reply, bear with us: small team, big care)", "note_prom": "🛡 <b>Our promise:</b> free cancellation within 24 hours · PromptPay QR only · full refund if it never arrives or isn't as described", "story_t": "The Scentical story", "story_p": "Scentical began with a simple belief: scent is a pause button — one stick of sandalwood can take you back to a moment when your heart truly rested. Every piece in our shop passes the same two tests: beautiful to look at, calming when lit. We hope each one becomes both a small daily ritual of your own and a gift that says, simply, please rest a while.", "pre": "Opening price · pre-order", "order": "Order via LINE @scentical", "ship_note": "Ships in 10-14 days · PromptPay · chat us anytime", "footer_r": "Storefront · pre-order system", "steps": [{"t": "Pick your piece", "d": "Tap a product card to see real photos from every angle, and note the one you love."}, {"t": "Message us on LINE", "d": "Send the model and your address to LINE @scentical — we confirm stock and shipping cost within the same day."}, {"t": "Pay via PromptPay", "d": "Pay through our PromptPay QR; delivery takes 10-14 days with a tracking slip so you can follow your parcel."}]}};
 let LANG = localStorage.getItem('lang') || 'th';
 let cur = null;
